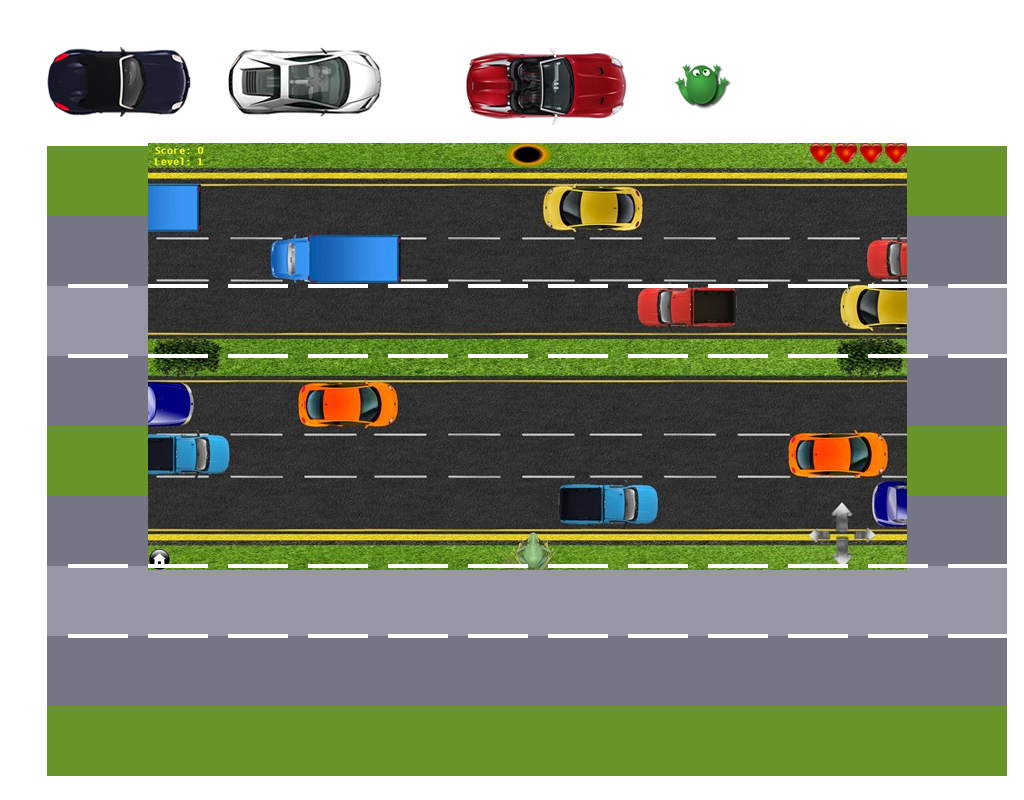
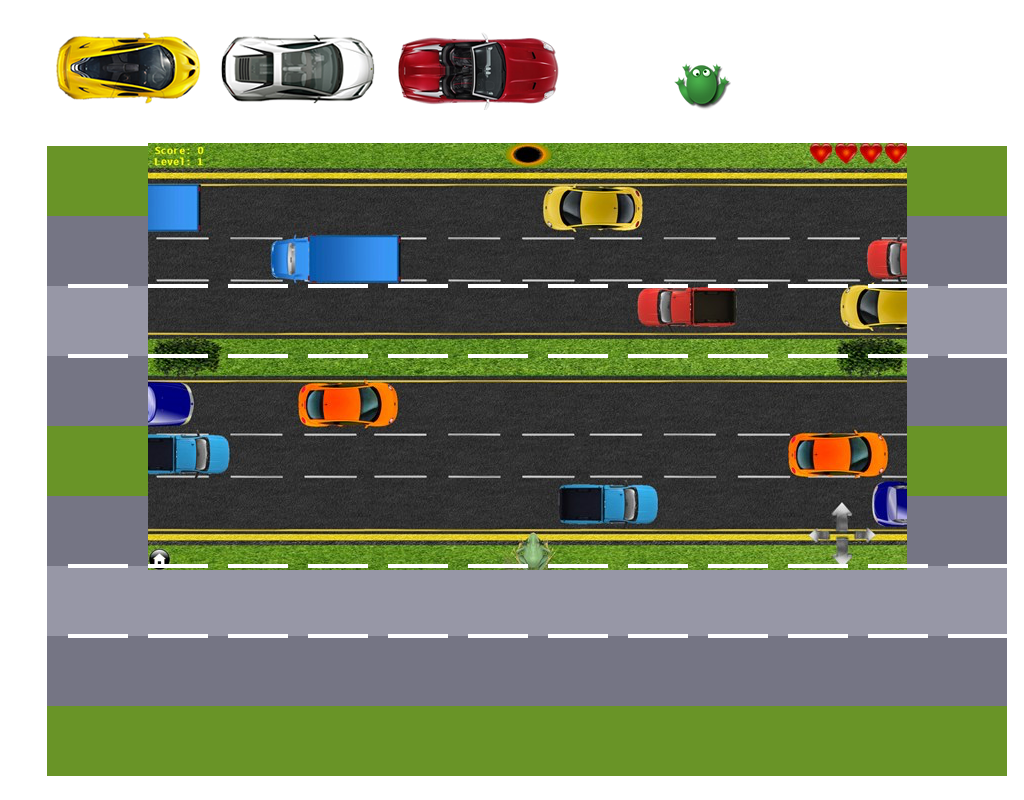
5 Vehiculos

Changed region(s): [[0.0312, 0.0312, 0.625, 0.1562]]

diff --git a/javascript/frogcrossingroad/js/game.js b/javascript/frogcrossingroad/js/game.js
@@ -1,8 +1,22 @@
 var bdy   = document.getElementById('bdy');
 var frog  = document.getElementById('frog');
-var car1  = document.getElementById('car1');
+
+var vh1   = document.getElementById('vh1');
+var vh2   = document.getElementById('vh2');
+var vh3   = document.getElementById('vh3');
+
 var pos1  = -160;
-var tcr1  = setInterval(animCar1, 100);
+var pos2  = -160;
+var pos3  = -160;
+
+var tcr1;
+var tcr2;
+var tcr3;
+
+var cr1   = Math.floor(Math.random() * 5) + 1;
+var cr2   = Math.floor(Math.random() * 5) + 1;
+var cr3   = Math.floor(Math.random() * 5) + 1;
+
 
         var post = 570;
         var posl = 450;
@@ -34,13 +48,56 @@ var tcr1  = setInterval(animCar1, 100);
             }
         }
 
+function carRandom1() {
+  vh1.classList.add('car'+cr1);
+  tcr1 = setInterval(animCar1, 10);
+} 
+function carRandom2() {
+  vh2.classList.add('car'+cr2);
+  tcr2 = setInterval(animCar2, 20);
+} 
+function carRandom3() {
+  vh3.classList.add('car'+cr3);
+  tcr3 = setInterval(animCar3, 30);
+} 
+
 function animCar1() {
   if (pos1 < 960) {
    pos1 += 10;
-   car1.style.left = pos1+'px';
+   vh1.style.left = pos1+'px';
   } else {
     //clearInterval(tcr1);
+    vh1.classList.remove('car1','car2','car3','car4','car5');
+    cr1 = Math.floor(Math.random() * 5) + 1;
+    vh1.classList.add('car'+cr1);
     pos1 = -160;
   }
-   
 }
+function animCar2() {
+  if (pos2 < 960) {
+   pos2 += 10;
+   vh2.style.left = pos2+'px';
+  } else {
+    //clearInterval(tcr2);
+    vh2.classList.remove('car1','car2','car3','car4','car5');
+    cr2 = Math.floor(Math.random() * 5) + 1;
+    vh2.classList.add('car'+cr2);
+    pos2 = -160;
+  }
+}
+function animCar3() {
+  if (pos3 < 960) {
+   pos3 += 10;
+   vh3.style.left = pos3+'px';
+  } else {
+    //clearInterval(tcr3);
+    vh3.classList.remove('car1','car2','car3','car4','car5');
+    cr3 = Math.floor(Math.random() * 5) + 1;
+    vh3.classList.add('car'+cr3);
+    pos3 = -160;
+  }
+}
+
+carRandom1();
+carRandom2();
+carRandom3();

diff --git a/javascript/frogcrossingroad/css/master.css b/javascript/frogcrossingroad/css/master.css
@@ -17,11 +17,28 @@ div#frog {
 
 	-webkit-transition: all 0.1s;
 }
-div#car1 {
-	background: transparent url(../imgs/car01.png) no-repeat center center;
+div#vh1, 
+div#vh2,
+div#vh3 {
 	height: 70px;
 	position: relative;
 	left: -154px;
-	top: 444px;
+	top: 304px;
 	width: 154px;
+}
+
+div.car1 {
+	background: transparent url(../imgs/car01.png) no-repeat center center;
+}
+div.car2 {
+	background: transparent url(../imgs/car02.png) no-repeat center center;
+}
+div.car3 {
+	background: transparent url(../imgs/car03.png) no-repeat center center;
+}
+div.car4 {
+	background: transparent url(../imgs/car04.png) no-repeat center center;
+}
+div.car5 {
+	background: transparent url(../imgs/car05.png) no-repeat center center;
 }

diff --git a/javascript/frogcrossingroad/index.html b/javascript/frogcrossingroad/index.html
@@ -8,7 +8,9 @@
 <body id="bdy">
 	<section id="road">
 		<div id="frog"></div>
-		<div id="car1"></div>
+		<div id="vh1"></div>
+		<div id="vh2"></div>
+		<div id="vh3"></div>
 	</section>
 	<script src="js/game.js"></script>
 </body>
